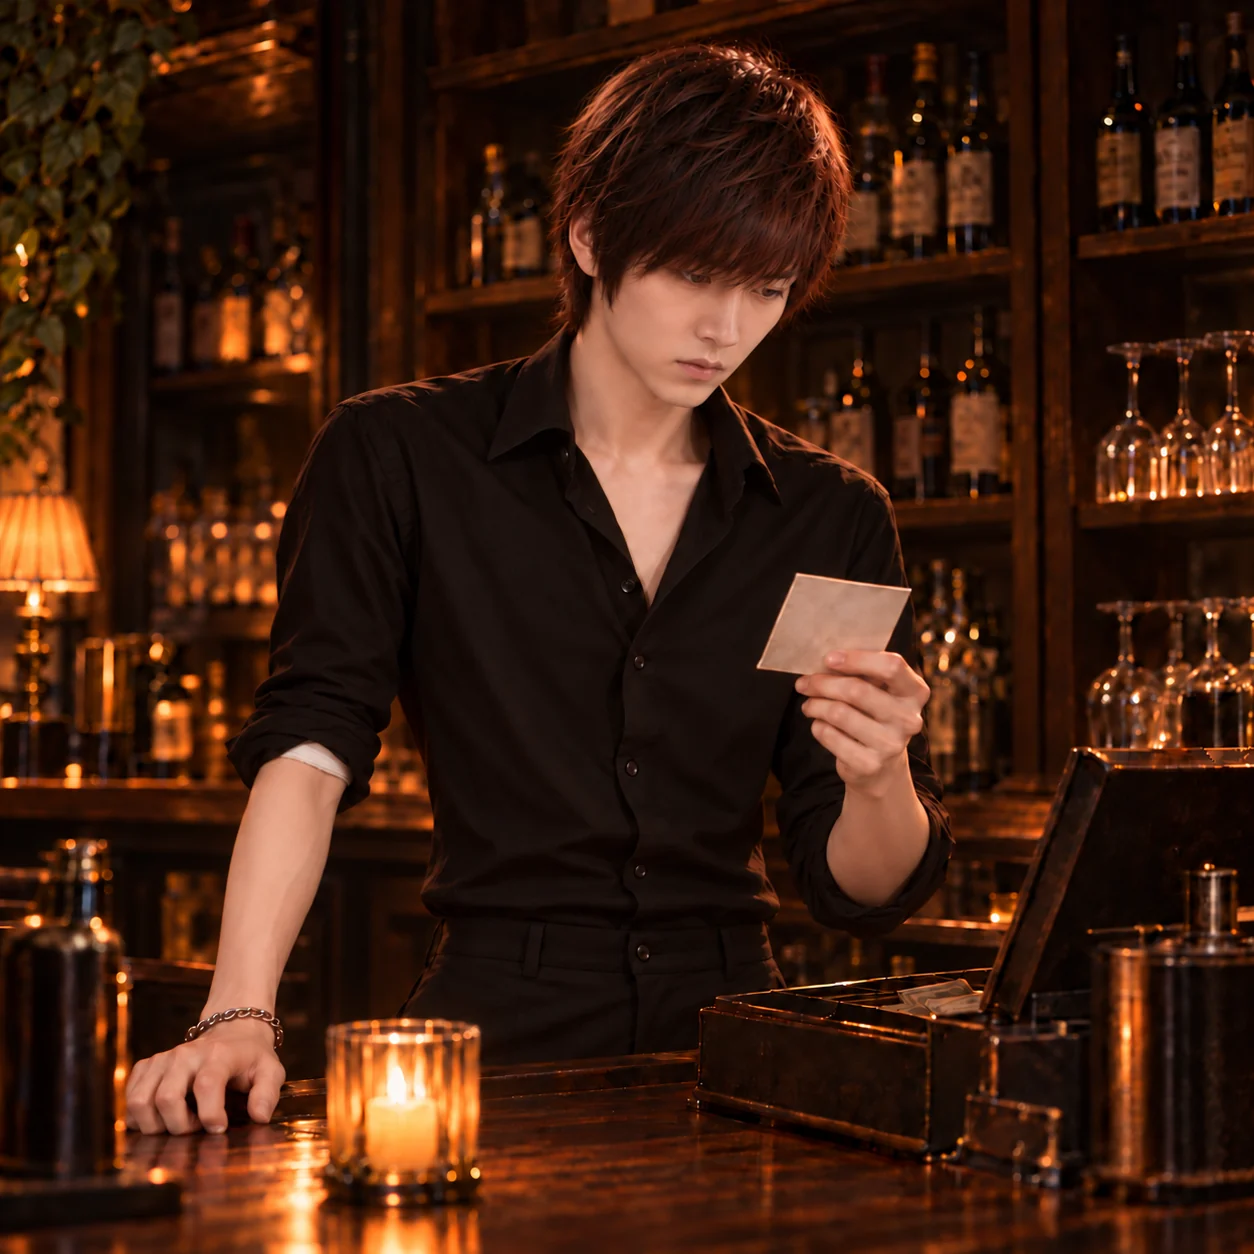
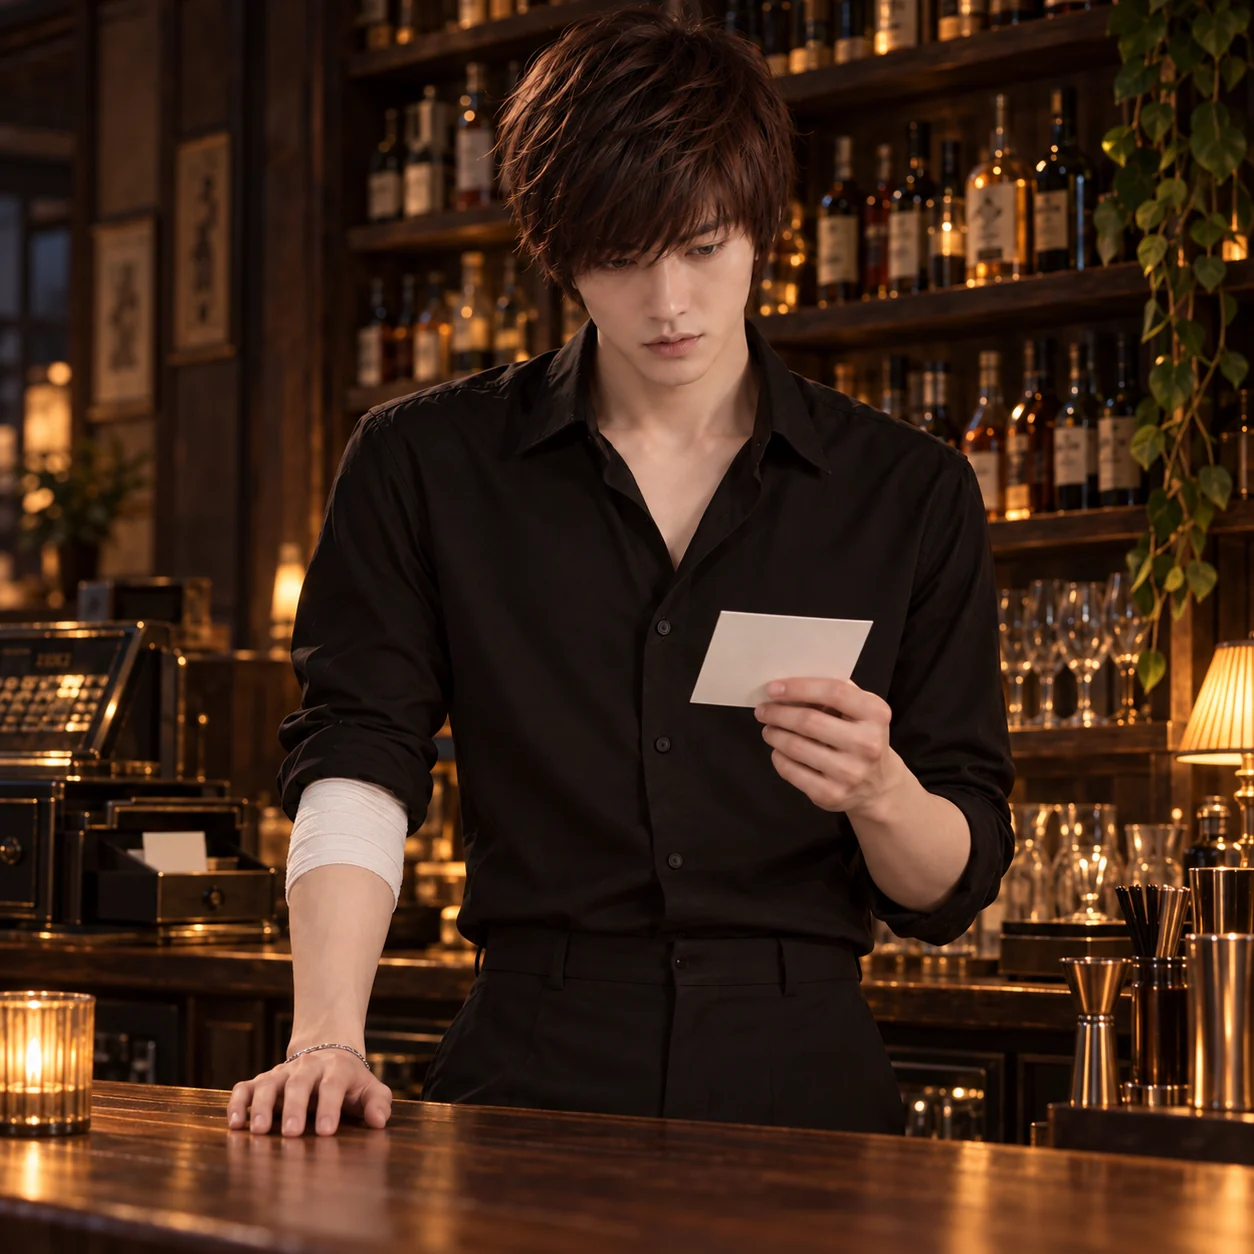
第一部第五章江澈配圖改用重畫版本
Claude-Session: https://claude.ai/code/session_01GBWYe2ZCjBEsB5sU4wpFsc

diff --git a/novels/no-signboard-bar/chapter-05.html b/novels/no-signboard-bar/chapter-05.html
@@ -273,7 +273,7 @@
 <p>而她，是一個兩天前才差點死掉的人。</p>
 </section>
 <section class="pov pov-jiang" data-name="江澈">
-<div class="pov-opening"><h2 class="pov-title" id="pov-4"><span>敘事視角</span>江澈</h2><a class="pov-art" href="../../assets/novels/no-signboard-bar/chapter-05-jiang-che.webp?v=20261014b" target="_blank" rel="noopener" aria-label="開啟江澈插圖大圖"><img src="../../assets/novels/no-signboard-bar/chapter-05-jiang-che.webp?v=20261014b" class="soft-edge" alt="打烊後的吧檯，燭火搖晃，江澈右臂包著紗布，打開收銀機，低頭看著從最底下那一格翻出來的照片。" width="1254" height="1254" loading="lazy" decoding="async"><span class="pov-cap">他剛剛才說了同意。</span></a><div class="pov-intro"><p>窗戶用木板釘起來了，風從縫裡鑽進來，吧檯上的燭火一直往一邊歪。</p>
+<div class="pov-opening"><h2 class="pov-title" id="pov-4"><span>敘事視角</span>江澈</h2><a class="pov-art" href="../../assets/novels/no-signboard-bar/chapter-05-jiang-che.webp?v=20261014c" target="_blank" rel="noopener" aria-label="開啟江澈插圖大圖"><img src="../../assets/novels/no-signboard-bar/chapter-05-jiang-che.webp?v=20261014c" class="soft-edge" alt="打烊後的吧檯，燭火搖晃，江澈右臂包著紗布，打開收銀機，低頭看著從最底下那一格翻出來的照片。" width="1254" height="1254" loading="lazy" decoding="async"><span class="pov-cap">他剛剛才說了同意。</span></a><div class="pov-intro"><p>窗戶用木板釘起來了，風從縫裡鑽進來，吧檯上的燭火一直往一邊歪。</p>
 <p>手臂縫了十一針，醫生叫我至少休息兩週，別用右手。今天我用右手擦了三十幾個杯子。醫生的話，我向來只聽一半，另一半拿去擦杯子。</p>
 <p>站久了眼前會黑，比以前更常。那天流了那麼多血，數字大概又掉了。</p></div></div>
 <p>我伸手到外套口袋找打火機，摸到一小塊摺起來的紙。是那包餅乾的包裝，皺巴巴的，摺得很小。那天早上掃完玻璃隨手塞進去，就忘了。</p>
